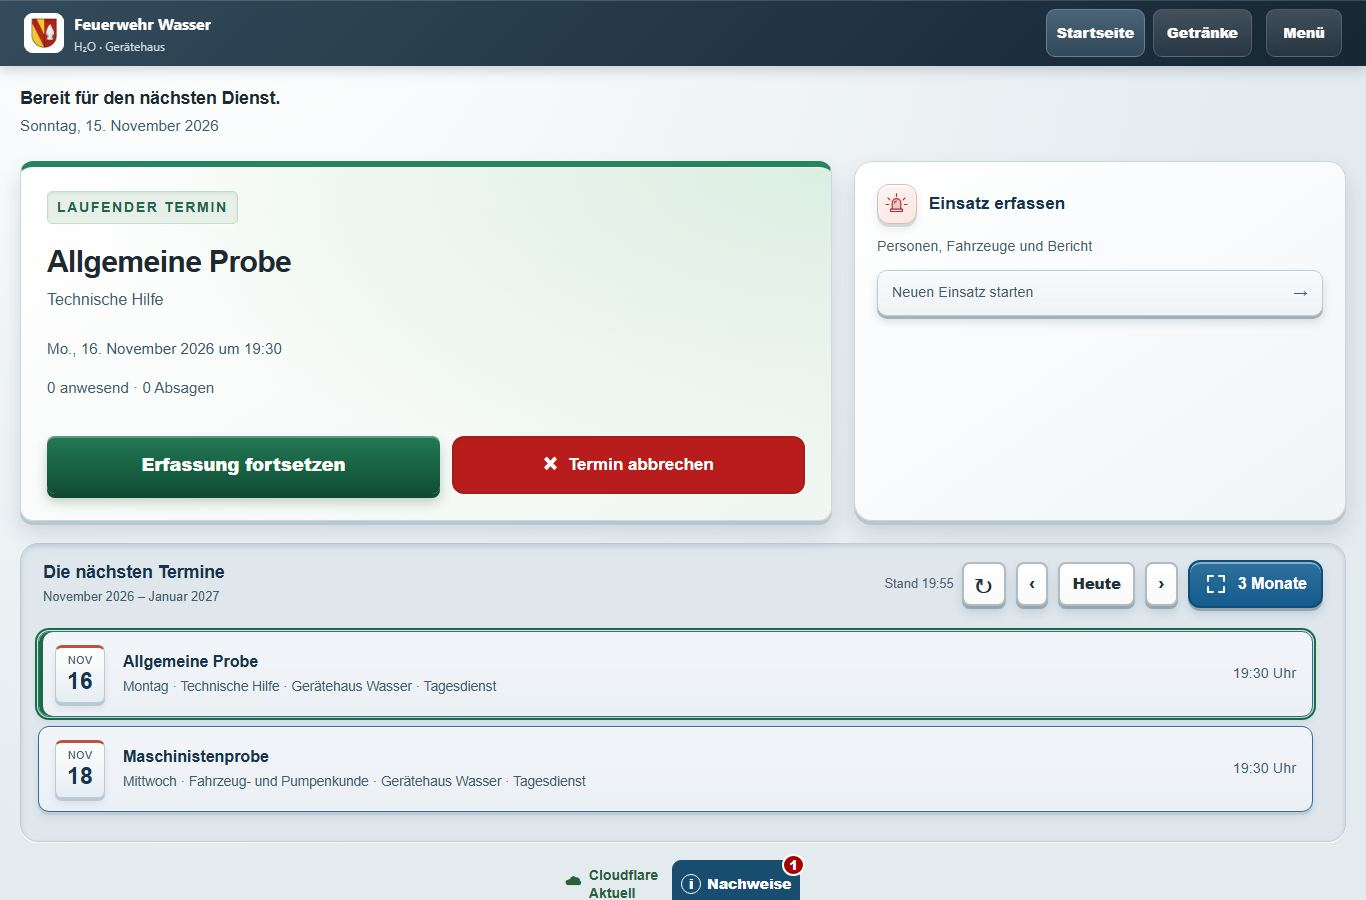
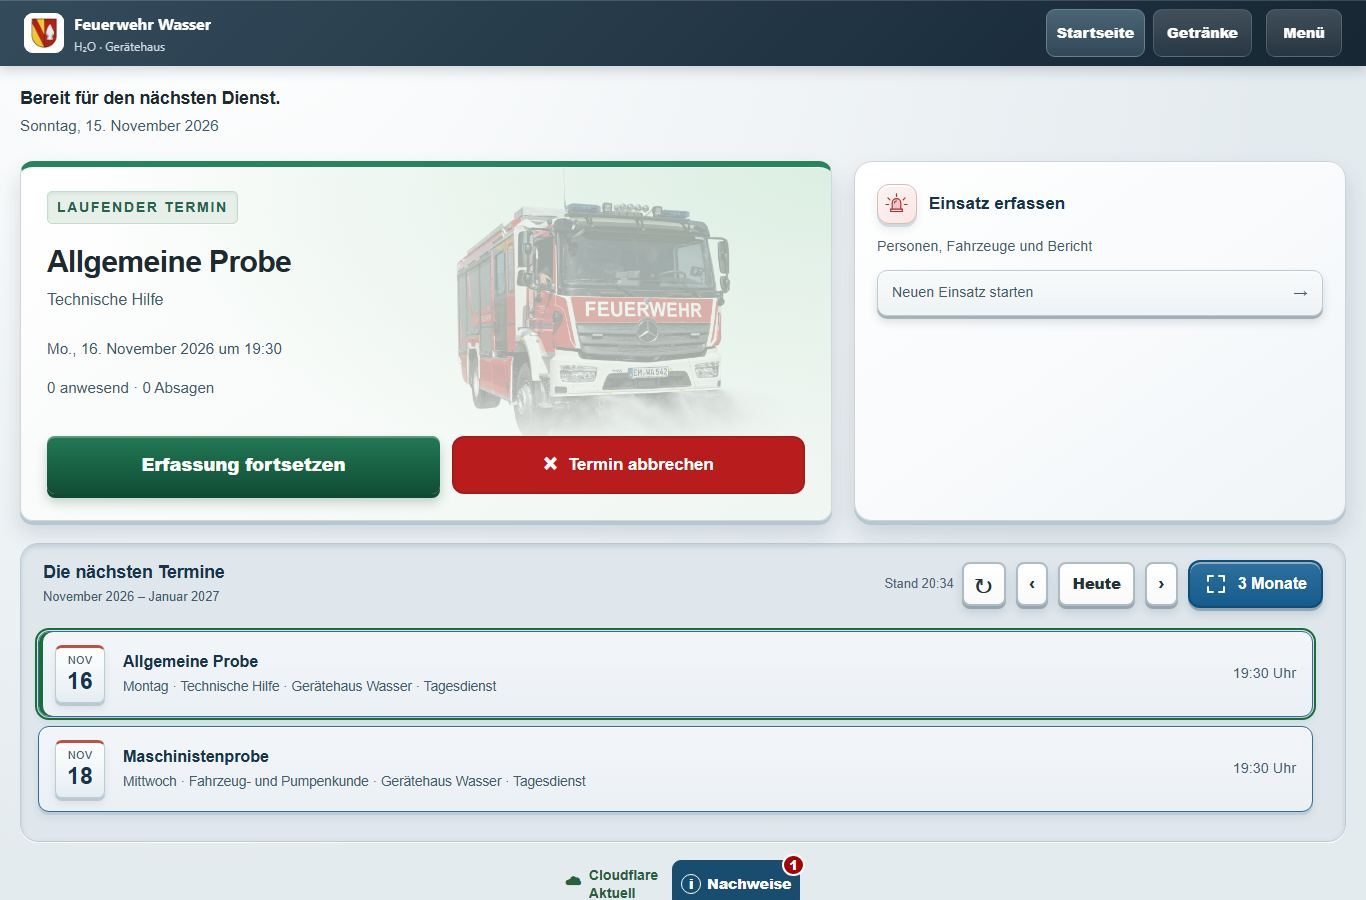
Add approved LF10 watermark to station appointment card

Changed region(s): [[0.3075, 0.2178, 0.5534, 0.4978], [0.6764, 0.6222, 0.7072, 0.6533]]

diff --git a/css/features/attendance-workflow.css b/css/features/attendance-workflow.css
@@ -1229,7 +1229,9 @@ html body #rolesPanel,html body #attendanceStatusToolbar,html body #floatingAtte
 #homeStartLayout>.home-welcome{grid-column:1/-1;padding:0 0 2px}
 #homeStartLayout>.home-welcome h2{font-size:1.1rem;font-weight:650;margin:0 0 4px;line-height:1.4}
 #homeStartLayout>.home-welcome p{font-size:.95rem;margin:0;color:#435b6e}
-#homeStartLayout>.home-session-type-panel{margin:0!important;padding:26px!important;min-width:0;max-width:none;width:100%;display:block!important;border-top:6px solid #26845f!important}
+#homeStartLayout>.home-session-type-panel{margin:0!important;padding:26px!important;min-width:0;max-width:none;width:100%;display:block!important;border-top:6px solid #26845f!important;position:relative;isolation:isolate;overflow:hidden}
+#homeStartLayout>.home-session-type-panel::before{content:"";position:absolute;z-index:-1;pointer-events:none;right:0;top:-12px;bottom:66px;width:60%;background:url("../../assets/lf10-home-watermark.png") right center/contain no-repeat;opacity:.3;filter:saturate(.65);mask-image:linear-gradient(90deg,transparent 0%,#000 28%,#000 86%,transparent 100%),linear-gradient(0deg,transparent 0%,#000 18%,#000 82%,transparent 100%);mask-composite:intersect}
+@media(max-width:760px){#homeStartLayout>.home-session-type-panel::before{width:75%;opacity:.17}}
 #homeStartLayout .attendance-start-card{display:flex;flex-direction:column;gap:16px;min-height:280px;height:100%;padding:0}
 #homeStartLayout .attendance-start-card h2{font-size:clamp(1.65rem,2.2vw,2rem);line-height:1.2;font-weight:700;margin:4px 0 0;letter-spacing:-.02em}
 #homeStartLayout .attendance-start-card .eyebrow{align-self:flex-start;display:block;margin:0;padding:5px 9px;border:1px solid #c1dbcd;border-radius:5px;background:#e6f0e9;color:#24634d;font-size:.75rem;letter-spacing:.12em;box-shadow:inset 0 2px 3px #264b3412,0 1px 0 #fff}

diff --git a/service-worker.js b/service-worker.js
@@ -241,6 +241,7 @@ const PUBLIC_FILES=[
   "./assets/help/guide/geraetehaus-google-termin.jpg",
   "./assets/help/guide/geraetehaus-google-pflege.jpg",
   "./assets/help/guide/geraetehaus-start.jpg",
+  "./assets/lf10-home-watermark.png",
   "./assets/help/guide/geraetehaus-statistik-pdf.jpg",
   "./assets/help/guide/geraetehaus-statistik.jpg",
   "./assets/help/guide/geraetehaus-uebernehmen.jpg",
